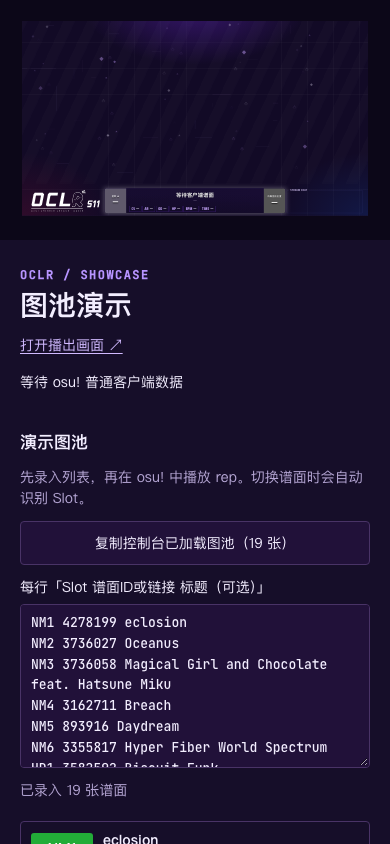
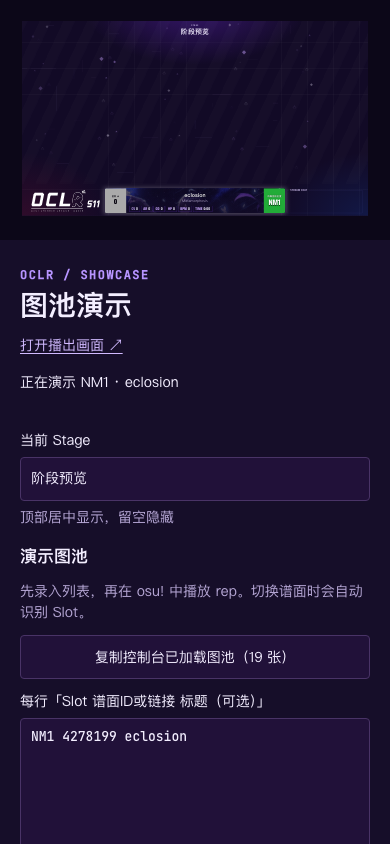
showcase: Add an independent Stage heading

diff --git a/ui/components/ShowcasePage.vue b/ui/components/ShowcasePage.vue
@@ -19,9 +19,15 @@ const { stage, scale } = useCanvasFit();
 const poolDraft = ref('');
 const dirty = ref(false);
 const poolFeedback = ref('');
+const stageDraft = ref('');
+const stageDirty = ref(false);
+const stageFeedback = ref('');
 let editRevision = 0;
+let stageRevision = 0;
 let pending: ReturnType<typeof setTimeout>;
+let pendingStage: ReturnType<typeof setTimeout>;
 watch(() => snapshot.value?.poolText, value => { if (!dirty.value && value !== undefined) poolDraft.value = value; }, { immediate: true });
+watch(() => snapshot.value?.stageLabel, value => { if (!stageDirty.value && value !== undefined) stageDraft.value = value; }, { immediate: true });
 const source = computed<MapInfoSource>(() => ({ shared: true, emptyTitle: '等待客户端谱面',
   currentMap: connection.value === 'synced' ? snapshot.value?.currentMap || null : null,
   metadataEnabled: !!snapshot.value?.matchedId,
@@ -50,6 +56,22 @@ function editPool() {
   clearTimeout(pending);
   pending = setTimeout(() => { void syncPool(); }, 450);
 }
+async function syncStage() {
+  clearTimeout(pendingStage);
+  if (!stageDirty.value) return;
+  if (connection.value !== 'synced') { stageFeedback.value = '等待连接恢复后自动同步'; return; }
+  if (busy.value) { pendingStage = setTimeout(() => { void syncStage(); }, 300); return; }
+  const revision = stageRevision;
+  const ok = await command('stage-label', { value: stageDraft.value });
+  if (revision !== stageRevision) { pendingStage = setTimeout(() => { void syncStage(); }, 450); return; }
+  if (ok) { stageDirty.value = false; stageDraft.value = snapshot.value?.stageLabel || ''; stageFeedback.value = 'Stage 已自动同步'; }
+  else stageFeedback.value = 'Stage 未同步，请检查输入或连接';
+}
+function editStage() {
+  stageRevision++; stageDirty.value = true; stageFeedback.value = '停止输入后自动同步'; error.value = '';
+  clearTimeout(pendingStage);
+  pendingStage = setTimeout(() => { void syncStage(); }, 450);
+}
 async function copyLoadedPool() {
   const revision = ++editRevision;
   clearTimeout(pending);
@@ -58,9 +80,13 @@ async function copyLoadedPool() {
     dirty.value = false; poolDraft.value = snapshot.value?.poolText || ''; poolFeedback.value = '已复制到 Showcase 图池';
   }
 }
-watch(connection, value => { if (value === 'synced' && dirty.value) void syncPool(); });
+watch(connection, value => {
+  if (value !== 'synced') return;
+  if (dirty.value) void syncPool();
+  if (stageDirty.value) void syncStage();
+});
 onMounted(() => { document.title = 'OCLR · 图池 Showcase'; document.body.classList.add('is-showcase'); });
-onUnmounted(() => { clearTimeout(pending); document.body.classList.remove('is-showcase'); });
+onUnmounted(() => { clearTimeout(pending); clearTimeout(pendingStage); document.body.classList.remove('is-showcase'); });
 </script>
 
 <template>
@@ -73,6 +99,10 @@ onUnmounted(() => { clearTimeout(pending); document.body.classList.remove('is-sh
       </header>
       <p class="showcase-status" role="status">{{ playbackStatus }}</p>
       <p v-if="error || snapshot?.error" class="showcase-error" role="alert">{{ error || snapshot?.error }}</p>
+      <label class="showcase-stage-input">当前 Stage
+        <input v-model="stageDraft" type="text" maxlength="80" :disabled="connection !== 'synced'" :aria-invalid="stageDirty && !!error" placeholder="例如：32强、半决赛、决赛" aria-describedby="showcase-stage-feedback" @input="editStage" @blur="syncStage">
+        <span id="showcase-stage-feedback" class="showcase-help" role="status">{{ stageFeedback || '顶部居中显示，留空隐藏' }}</span>
+      </label>
       <section class="showcase-pool-setup" aria-labelledby="showcase-pool-heading">
         <h2 id="showcase-pool-heading">演示图池</h2>
         <p class="showcase-help">先录入列表，再在 osu! 中播放 rep。切换谱面时会自动识别 Slot。</p>
@@ -80,9 +110,9 @@ onUnmounted(() => { clearTimeout(pending); document.body.classList.remove('is-sh
         <label class="showcase-pool-input">每行「Slot 谱面ID或链接 标题（可选）」
           <textarea v-model="poolDraft" rows="7" spellcheck="false" :disabled="connection !== 'synced'" placeholder="NM1 谱面ID
 HD1 https://osu.ppy.sh/beatmaps/具体难度ID"
-            aria-describedby="showcase-pool-feedback" :aria-invalid="!!error" @input="editPool" @blur="syncPool"></textarea>
+            aria-describedby="showcase-pool-feedback" :aria-invalid="dirty && !!error" @input="editPool" @blur="syncPool"></textarea>
         </label>
-        <p id="showcase-pool-feedback" class="showcase-help" role="status">{{ busy ? '正在同步图池…' : error ? '列表未应用，请修改上方提示的行' : poolFeedback || (snapshot?.pool.length ? `已录入 ${snapshot.pool.length} 张谱面` : '列表自动同步，无需逐张切换 Slot') }}</p>
+        <p id="showcase-pool-feedback" class="showcase-help" role="status">{{ busy && dirty ? '正在同步图池…' : error && dirty ? '列表未应用，请修改上方提示的行' : poolFeedback || (snapshot?.pool.length ? `已录入 ${snapshot.pool.length} 张谱面` : '列表自动同步，无需逐张切换 Slot') }}</p>
       </section>
       <ul v-if="snapshot?.pool.length" class="showcase-maps" aria-label="演示图池与当前匹配">
         <li v-for="map in snapshot.pool" :key="map.id" :data-current="connection === 'synced' && snapshot.matchedId === map.id" :aria-current="connection === 'synced' && snapshot.matchedId === map.id ? 'true' : undefined" :title="`${map.label} · ${map.title} [${map.difficulty}]`">
@@ -90,7 +120,7 @@ HD1 https://osu.ppy.sh/beatmaps/具体难度ID"
           <span><strong>{{ map.title || `谱面 #${map.beatmapId}` }}</strong><small>{{ map.difficulty || `#${map.beatmapId}` }}</small></span>
         </li>
       </ul>
-      <p class="showcase-help">使用 tosu 读取 osu! 普通客户端的当前谱面。在 OBS 自行添加回放采集源，放到 Showcase 浏览器源上方，并完整缩放到上半区；16:9 画面可使用 1600×900，位置 (160, 0)。</p>
+      <p class="showcase-help">使用 tosu 读取 osu! 普通客户端的当前谱面。在 OBS 自行添加回放采集源，放到 Showcase 浏览器源上方；16:9 画面可使用 1440×810，位置 (240, 90)，为顶部 Stage 留出空间。</p>
       <ShowcaseObsSetup />
     </aside>
     <main class="canvas-stage" ref="stage" aria-label="Showcase 画面预览">
@@ -100,7 +130,12 @@ HD1 https://osu.ppy.sh/beatmaps/具体难度ID"
             <SpectrumGrid />
             <ShowcaseAmbient />
           </div>
-          <div class="showcase-game victory-body" data-showcase-capture aria-label="单客户端回放演示区域，游戏采集在 OBS 中叠放到本背景上方"></div>
+          <div class="showcase-game victory-body" aria-hidden="true"></div>
+          <header v-if="snapshot?.stageLabel" class="showcase-stage-title" data-showcase-stage :title="snapshot.stageLabel">
+            <span>STAGE</span>
+            <strong>{{ snapshot.stageLabel }}</strong>
+          </header>
+          <div class="showcase-replay-area" data-showcase-capture aria-label="单客户端回放区域 1440×810，位置 240,90"></div>
           <footer class="showcase-footer">
             <div class="showcase-logo">
               <img :src="seasonLogo" width="690" height="240" alt="OCLR S11 比赛 Logo" decoding="async">

diff --git a/server/showcase.js b/server/showcase.js
@@ -5,6 +5,10 @@ import { tosuRoomTeams } from '../src/tosu.js';
 import { parseShowcasePool, showcasePool, showcasePoolText } from './showcase-pool.js';
 
 const poolToken = pool => createHash('sha256').update(JSON.stringify(pool)).digest('hex');
+const stageLabel = value => {
+  if (typeof value !== 'string' || value.length > 80 || /[\u0000-\u001f\u007f]/.test(value)) throw new Error('Stage 请填写 80 字以内的单行阶段名称。');
+  return value.trim();
+};
 
 // Showcase owns its pool. Live map identity is derived from the ordinary client,
 // never persisted as an operator selection or sent back to competition state.
@@ -12,7 +16,7 @@ export class ShowcaseStore {
   constructor(session, { file = session?.file && join(dirname(session.file), 'showcase.json') } = {}) {
     this.session = session;
     this.file = file;
-    this.state = { schema: 2, pool: [] };
+    this.state = { schema: 2, pool: [], stageLabel: '' };
     this.tail = Promise.resolve();
     this.ready = this.restore();
   }
@@ -29,10 +33,10 @@ export class ShowcaseStore {
     if (!this.file) return;
     try {
       const value = JSON.parse(await readFile(this.file, 'utf8'));
-      if (value.schema === 2) this.state = { schema: 2, pool: showcasePool(value.pool) };
+      if (value.schema === 2) this.state = { schema: 2, pool: showcasePool(value.pool), stageLabel: stageLabel(value.stageLabel ?? '') };
       else if (typeof value.poolToken === 'string' && typeof value.useTosu === 'boolean' && (value.selectedId === null || typeof value.selectedId === 'string')) {
         // Replace the earlier manual-selection contract with an independent pool.
-        this.state = { schema: 2, pool: showcasePool(this.session?.snapshot().session.pool || []) };
+        this.state = { schema: 2, pool: showcasePool(this.session?.snapshot().session.pool || []), stageLabel: '' };
       } else throw new Error();
     } catch (error) {
       if (error.code !== 'ENOENT') this.storageError = 'Showcase 设置无法读取，请维护者检查 showcase.json。';
@@ -58,7 +62,7 @@ export class ShowcaseStore {
       title: matched?.title || map.title || '', artist: matched?.artist || map.artist || '', difficulty: matched?.difficulty || map.difficulty || '',
     } : null;
     const snapshot = {
-      poolToken: poolToken(pool), pool, poolText: showcasePoolText(pool),
+      poolToken: poolToken(pool), pool, poolText: showcasePoolText(pool), stageLabel: this.state.stageLabel,
       loadedPoolCount: loadedPool.length, loadedPoolToken: poolToken(loadedPool),
       matchedId: matched?.id || null, currentMap,
       mapParameters: map ? { id: map.id, stats: map.stats, time: map.time } : null,
@@ -77,16 +81,20 @@ export class ShowcaseStore {
       await this.ready;
       if (this.storageError) throw new Error(this.storageError);
       const current = this.snapshot();
-      if (input.poolToken !== current.poolToken) throw new Error('Showcase 图池已更新，请核对当前列表后重试。');
-      let pool;
-      if (input.type === 'pool-text') pool = parseShowcasePool(input.text, this.state.pool);
-      else if (input.type === 'use-loaded-pool') {
-        const loaded = this.session?.snapshot().session.pool || [];
-        if (!loaded.length) throw new Error('控制台尚未加载图池，请直接录入 Showcase 图池列表。');
-        if (input.loadedPoolToken !== poolToken(loaded)) throw new Error('控制台图池已变化，请重新复制。');
-        pool = showcasePool(loaded);
-      } else throw new Error('Showcase 已改为自动跟随客户端，请刷新页面后录入图池。');
-      const next = { schema: 2, pool };
+      let next;
+      if (input.type === 'stage-label') next = { ...this.state, stageLabel: stageLabel(input.value) };
+      else {
+        if (input.poolToken !== current.poolToken) throw new Error('Showcase 图池已更新，请核对当前列表后重试。');
+        let pool;
+        if (input.type === 'pool-text') pool = parseShowcasePool(input.text, this.state.pool);
+        else if (input.type === 'use-loaded-pool') {
+          const loaded = this.session?.snapshot().session.pool || [];
+          if (!loaded.length) throw new Error('控制台尚未加载图池，请直接录入 Showcase 图池列表。');
+          if (input.loadedPoolToken !== poolToken(loaded)) throw new Error('控制台图池已变化，请重新复制。');
+          pool = showcasePool(loaded);
+        } else throw new Error('Showcase 已改为自动跟随客户端，请刷新页面后录入图池。');
+        next = { ...this.state, pool };
+      }
       if (this.file) {
         try {
           await mkdir(dirname(this.file), { recursive: true, mode: 0o700 });

diff --git a/ui/showcase.css b/ui/showcase.css
@@ -10,8 +10,8 @@
 .showcase-controls button:disabled { opacity: .5; cursor: default; }
 .showcase-controls button:hover:not(:disabled) { border-color: var(--purple-light); background: #382055; }
 .showcase-controls :is(button, input, textarea, a):focus-visible { outline: 2px solid #d1baff; outline-offset: 3px; }
-.showcase-pool-input, .showcase-controls .obs-settings label { display: grid; gap: 6px; min-width: 0; }
-.showcase-pool-input textarea, .showcase-controls .obs-settings input { width: 100%; min-width: 0; }
+.showcase-pool-input, .showcase-stage-input, .showcase-controls .obs-settings label { display: grid; gap: 6px; min-width: 0; }
+.showcase-pool-input textarea, .showcase-stage-input input, .showcase-controls .obs-settings input { width: 100%; min-width: 0; }
 .showcase-maps { list-style: none; margin-block: 16px; display: grid; grid-template-columns: minmax(0, 1fr); gap: 8px; max-height: 36vh; overflow-y: auto; padding: 4px; margin-inline: -4px; }
 .showcase-maps li { display: grid; grid-template-columns: 62px minmax(0, 1fr); gap: 10px; align-items: center; text-align: left; border: 1px solid var(--review-line); border-radius: 4px; padding: 8px 10px; }
 .showcase-maps li[data-current='true'] { border-color: var(--purple-light); background: #422363; box-shadow: inset 3px 0 var(--purple-light); }
@@ -43,6 +43,10 @@
 }
 @media (prefers-reduced-motion: reduce) { .showcase-diamond { animation: none; opacity: .26; } }
 .showcase-canvas .showcase-game { position: absolute; inset: 0 0 180px; pointer-events: none; }
+.showcase-stage-title { position: absolute; top: 18px; left: 360px; right: 360px; z-index: 2; display: flex; flex-direction: column; align-items: center; gap: 3px; text-align: center; pointer-events: none; }
+.showcase-stage-title > span { color: var(--muted); font: 700 13px/1.2 var(--display); letter-spacing: .2em; }
+.showcase-stage-title > strong { display: block; width: 100%; overflow: hidden; color: var(--ink); font: 700 38px/1.2 var(--display); letter-spacing: .04em; text-overflow: ellipsis; white-space: nowrap; }
+.showcase-replay-area { position: absolute; left: 240px; top: 90px; width: 1440px; height: 810px; pointer-events: none; }
 .showcase-footer { position: absolute; inset: 900px 0 0; overflow: hidden; }
 .showcase-logo { position: absolute; left: 30px; top: 28px; width: 420px; height: 138px; overflow: hidden; border-radius: var(--radius-panel); }
 .showcase-logo img { display: block; width: 100%; height: 100%; object-fit: contain; object-position: center; }

diff --git a/test/showcase.test.js b/test/showcase.test.js
@@ -62,8 +62,36 @@ test('the independent pool persists across restart, while current Slot follows t
   session.live.tosu.status = 'disconnected';
   assert.equal(restored.snapshot().currentMap, null, 'the last live Slot is never persisted');
   const saved = JSON.parse(await readFile(file, 'utf8'));
-  assert.deepEqual(Object.keys(saved).sort(), ['pool', 'schema']);
+  assert.deepEqual(Object.keys(saved).sort(), ['pool', 'schema', 'stageLabel']);
   assert.equal(saved.schema, 2);
+});
+
+test('Showcase Stage persists independently and stage/pool edits preserve each other without competition events', async t => {
+  const dir = await mkdtemp(join(tmpdir(), 'oclr-showcase-stage-'));
+  t.after(() => rm(dir, { recursive: true, force: true }));
+  const file = join(dir, 'showcase.json');
+  const { session, showcase } = setup(t, { file });
+  const original = structuredClone(session.state);
+  let events = 0;
+  const stop = session.subscribe(() => events++);
+  assert.equal(showcase.snapshot().stageLabel, '');
+  await Promise.all([
+    showcase.command({ type: 'stage-label', value: '  半决赛  ' }),
+    setPool(showcase, 'NM1 101'),
+  ]);
+  assert.equal(showcase.snapshot().stageLabel, '半决赛');
+  assert.equal(showcase.snapshot().pool.length, 1);
+  const restored = new ShowcaseStore(session, { file });
+  await restored.ready;
+  assert.equal(restored.snapshot().stageLabel, '半决赛');
+  await copyPool(showcase);
+  assert.equal(showcase.snapshot().stageLabel, '半决赛');
+  for (const value of ['A\nB', 'X'.repeat(81), 42]) await assert.rejects(showcase.command({ type: 'stage-label', value }), /Stage/);
+  await showcase.command({ type: 'stage-label', value: '' });
+  assert.equal(showcase.snapshot().stageLabel, '');
+  assert.equal(events, 1);
+  assert.deepEqual(session.state, original);
+  stop();
 });
 
 test('manual pool recording is independent of match progress and later control-pool replacement', async t => {

diff --git a/ui/components/ObsSettings.vue b/ui/components/ObsSettings.vue
@@ -55,7 +55,7 @@ function editChat(event: Event) {
           <button :disabled="!!obs.pending" @click="obs.act('create-showcase')">{{ obs.pending === 'create-showcase' ? '正在创建 Showcase 场景…' : '创建 Showcase 场景' }}</button>
           <button :disabled="!!obs.pending" @click="obs.act('disconnect')">断开连接</button>
         </div>
-        <p>创建 1920×1080 的独立 Showcase 背景浏览器源。请自行添加 osu! 回放采集并放在它上方，完整缩放到上半区，再在 OBS 切到 Showcase 场景。</p>
+        <p>创建 1920×1080 的独立 Showcase 背景浏览器源。请自行添加 osu! 回放采集并放在它上方，完整缩放到顶部 Stage 下方的回放区域，再在 OBS 切到 Showcase 场景。</p>
         <p v-if="obs.state.showcase" role="status">Showcase 场景已就绪。</p>
       </template>
       <template v-else>

diff --git a/ui/showcase.ts b/ui/showcase.ts
@@ -7,6 +7,7 @@ export interface ShowcaseSnapshot {
   poolToken: string;
   pool: PoolEntry[];
   poolText: string;
+  stageLabel: string;
   loadedPoolCount: number;
   loadedPoolToken: string;
   matchedId: string | null;
@@ -42,7 +43,7 @@ export function useShowcase() {
     watchdog = setInterval(() => { if (Date.now() - lastReceived > 10000) connection.value = 'disconnected'; }, 1500);
   });
   onUnmounted(() => { disposed = true; events?.close(); clearInterval(watchdog); });
-  const command = async (type: 'pool-text' | 'use-loaded-pool', fields: Record<string, unknown> = {}) => {
+  const command = async (type: 'pool-text' | 'use-loaded-pool' | 'stage-label', fields: Record<string, unknown> = {}) => {
     if (busy.value || !snapshot.value || connection.value !== 'synced') return false;
     busy.value = true; error.value = '';
     try {

diff --git a/docs/verification/showcase/README.md b/docs/verification/showcase/README.md
@@ -6,11 +6,11 @@
 
 按 [Issue #32](https://github.com/OCLR-dev/OCLR-stream-overlay/issues/32) 的独立 Showcase 需求及用户本轮修正：先录入演示图池，随后按普通 osu! 客户端经 tosu 提供的当前谱面自动识别 Slot。原手工点选、前后切图与可选跟随方式已移除。
 
-录入支持 Slot + 谱面 ID／具体难度链接 + 可选标题，也可复制控制台当前已加载图池；输入停顿 450ms 或失焦自动同步。整份列表通过校验后才应用，无效行保留原列表与编辑草稿。Showcase 图池单独保存在 `showcase.json`，控制台后续换场或更换图池不覆盖它；旧手工选择文件兼容迁移为独立图池，旧 Slot 不再生效。
+录入支持 Slot + 谱面 ID／具体难度链接 + 可选标题，也可复制控制台当前已加载图池；输入停顿 450ms 或失焦自动同步。整份列表通过校验后才应用，无效行保留原列表与编辑草稿。Showcase 图池与独立 Stage 名称保存在 `showcase.json`，控制台后续换场或更换图池不覆盖它；旧手工选择文件兼容迁移为独立图池，旧 Slot 不再生效。
 
 当前 Slot 只由新鲜普通客户端谱面 ID 唯一匹配。池外／重复 ID 时 Slot 为 `—`，仍显示真实客户端谱面信息；断线、过期、无谱面或有效赛事房间／选手时清除旧的实时显示。零值参数保留，空 tourney 占位结构按[官方 v2 格式](https://github.com/tosuapp/tosu/wiki/v2-websocket-api-response)兼容。此路径不要求比赛 Playing，不发出比赛命令或改变 Ban/Pick、局次、比分、赛果、场景和撤销历史。
 
-1920×1080 上方 1920×900 改为 Winner 同款背景与动态效果：深紫渐光／静态网格、共用网格光段、54 枚独立向上漂浮的菱形、13.24s 斜条纹。底部恢复 Playing 三段几何：S11 Logo (30,928) 420×138，谱面卡 (460,928) 1000×138，Stream Chat (1470,928) 420×138；不显示红蓝分隔线或 Match Chat。回放采集由直播员放到 OBS 浏览器背景源上方，并限制在上半区。
+1920×1080 上方 1920×900 改为 Winner 同款背景与动态效果：深紫渐光／静态网格、共用网格光段、54 枚独立向上漂浮的菱形、13.24s 斜条纹。底部恢复 Playing 三段几何：S11 Logo (30,928) 420×138，谱面卡 (460,928) 1000×138，Stream Chat (1470,928) 420×138；不显示红蓝分隔线或 Match Chat。最上方居中显示独立录入的 Stage，留空隐藏；标题区高度 90px，回放区域为 (240,90) 1440×810，避免被上方游戏采集盖住。回放采集由直播员放到 OBS 浏览器背景源上方，并限制在该区域。
 
 ## S11 Logo 来源
 
@@ -19,12 +19,12 @@
 ## 验证结果
 
 - 本轮 `npm run build`（含 Vue 类型检查）与 `git diff --check` 通过，构建仅在隔离工作树。
-- Showcase／OBS／HTTP 专项 **40 项**通过，包括独立图池、自动 Slot、跨页面 SSE、图片文件类型与访问边界，以及独立 OBS 创建／重试／常规 EX 保持等回归。
+- Stage／Showcase／独立 OBS／HTTP 专项 **18 项**通过，包括 Stage 保存／恢复、清空、与并发图池编辑互不覆盖、旧文件兼容，以及独立图池、自动 Slot、跨页面 SSE 和路由边界。
 - 浏览器以独立 WebSocket → 真实 `TosuClient` → 归一化 → Showcase SSE → 两个页面检查 NM1 自动变为 NM2。图池自动同步、非法行保持、池外／重复 ID、断线清除与恢复、刷新跟随保持。
-- 1920×1080 几何复核：Logo／谱面卡／Stream Chat 的位置与 Playing 三段布局一致；Logo 成功解码本地透明 SVG，实际像素检查确认可见图形为纯白、其余区域透明。Winner 斜纹周期保持 13.24s；Showcase 单独使用 54 枚菱形。实际运动取样确认水平位移为 0、竖直位移向上；Winner 仍使用原 36 枚菱形与 `ambient-diamond-drift`。换图后装饰节点保持同一个 DOM；减少动态偏好下斜纹和菱形动画关闭、网格光段隐藏。
+- 1920×1080 几何复核：Stage 标题位于顶部中央且底边不超过 90px，输入自动同步、清空隐藏、刷新保留；回放区域 (240,90) 1440×810 与标题不重叠。Logo／谱面卡／Stream Chat 的位置与 Playing 三段布局一致；Logo 成功解码本地透明 SVG，实际像素检查确认可见图形为纯白、其余区域透明。Winner 斜纹周期保持 13.24s；Showcase 单独使用 54 枚菱形。实际运动取样确认水平位移为 0、竖直位移向上；Winner 仍使用原 36 枚菱形与 `ambient-diamond-drift`。换图后装饰节点保持同一个 DOM；减少动态偏好下斜纹和菱形动画关闭、网格光段隐藏。
 - 1440×1000 操作页与 390×844 手机页无横向溢出；独立干净输出不请求比赛会话或 OBS 管理 API。八组 Playing 人数／比例／EX 捕获与 1000×138 谱面卡几何保持。详情见 [浏览器量测](browser-checks.json)。浏览器无 exception、error 或 warning，比赛会话前后深比较相同。
 
-浏览器复制了现有 3001 服务已加载的完整 19 张图池，仅用于隔离验证，未增造谱面或写回原比赛。WebSocket 信号与截图中的零值参数是**明确的合成验证信号**，不代表谱面正式参数或真实回放。池外／重复映射为故障注入测试，未改官方图池。
+浏览器复制了现有 3001 服务已加载的完整 19 张图池，仅用于隔离验证，未增造谱面或写回原比赛。WebSocket 信号与截图中的零值参数是**明确的合成验证信号**，不代表谱面正式参数或真实回放；截图中的「阶段预览」也是排版验证文字，不代表正式赛程阶段。池外／重复映射为故障注入测试，未改官方图池。
 
 [Logo 局部预览](showcase-logo-preview.png) · [等待客户端时的输出](showcase-empty-1920.png) · [已匹配谱面的输出](showcase-1920.png) · [桌面录入与自动匹配](selection-1440.png) · [手机操作](selection-390.png)
 

diff --git a/README.md b/README.md
@@ -52,10 +52,12 @@ npm run watch
 
 ## 图池 Showcase
 
-打开 `/showcase`，先录入演示图池，每行「Slot 谱面ID或链接 标题（可选）」，例如 `NM1 4278199 eclosion`；也可点击「复制控制台已加载图池」。支持 osu! 具体难度链接，图集链接须带 `#osu/难度ID`。输入停顿或离开输入框后自动同步，无需保存。图池单独写入比赛文件同目录的 `showcase.json`，后续控制台换场或改图池不会覆盖它。
+打开 `/showcase`，先录入演示图池，每行「Slot 谱面ID或链接 标题（可选）」，例如 `NM1 4278199 eclosion`；也可点击「复制控制台已加载图池」。支持 osu! 具体难度链接，图集链接须带 `#osu/难度ID`。输入停顿或离开输入框后自动同步，无需保存。图池与 Stage 单独写入比赛文件同目录的 `showcase.json`，后续控制台换场或改图池不会覆盖它们。
+
+左侧「当前 Stage」可独立填写本次图池的阶段名称，输入后自动同步到画面最上方中央，留空隐藏。它不跟随控制台默认比赛阶段；复制图池也保留已填写的名称。
 
 让 tosu 读取 osu! 普通客户端，在客户端选择谱面或运行 rep；Showcase 按当前谱面 ID 自动匹配 Slot，并同步曲名、难度、封面及可用参数，不需要手工选图或切 Slot。只有唯一匹配时才显示图池 Slot；池外或同一 ID 对应多个 Slot 时显示 `—`，操作区说明原因。断线、过期、无有效谱面或有效赛事客户端数据不会保留上张图的实时显示。
-在页面的「Showcase 的 OBS 设置」中连接本机 OBS，然后点击「创建 Showcase 场景」。会创建 `OCLR · Showcase` 和 1920×1080 的独立 `/showcase?clean=1` 浏览器源；不会自动切 Program。已有直播身份码时会复用同一弹幕源，也可在 Showcase 设置中粘贴身份码。osu! 普通客户端运行单张谱面的 rep 后，请自行在 OBS 添加回放采集源并放到 Showcase 浏览器源上方；16:9 画面可设为 1600×900、位置 (160,0)，完整放在上半区。上半区复用 Winner 的深紫背景与动态效果；底部按 Playing 排列 S11 官方比赛 Logo、1000×138 谱面卡和 `STREAM CHAT`。
+在页面的「Showcase 的 OBS 设置」中连接本机 OBS，然后点击「创建 Showcase 场景」。会创建 `OCLR · Showcase` 和 1920×1080 的独立 `/showcase?clean=1` 浏览器源；不会自动切 Program。已有直播身份码时会复用同一弹幕源，也可在 Showcase 设置中粘贴身份码。osu! 普通客户端运行单张谱面的 rep 后，请自行在 OBS 添加回放采集源并放到 Showcase 浏览器源上方；16:9 画面可设为 1440×810、位置 (240,90)，放在 Stage 标题区下方。上半区复用 Winner 的深紫背景与动态效果；底部按 Playing 排列 S11 官方比赛 Logo、1000×138 谱面卡和 `STREAM CHAT`。
 
 谱面跟随复用服务端当前已连接的 tosu 数据，不另建浏览器直连。Showcase 的图池与自动显示不修改比赛 Ban/Pick、局次、比分、场景或自动化；`/overlay` 继续承担原比赛输出。真实 Windows 单客户端 rep、tosu 与 OBS 合成仍需实机验收，隔离验证见 [Showcase 验证](docs/verification/showcase/README.md)。
 

diff --git a/DESIGN.md b/DESIGN.md
@@ -442,7 +442,7 @@ BanchoBot 名称不区分大小写，或消息明确标为 `bot` 时，昵称优
 
 `/showcase` 先录入演示图池，再自动跟随普通 osu! 客户端经 tosu 提供的当前谱面，`/showcase?clean=1` 为独立 OBS 浏览器源。Slot 由谱面 ID 唯一匹配，不提供手工切 Slot、上一张／下一张或可选的谱面跟随开关。录入支持 Slot + 谱面 ID／具体难度链接 + 可选标题，也可显式复制控制台已加载图池；输入停顿／失焦自动同步。图池独立保存在 `showcase.json`，后续比赛换场或控制台图池调整不覆盖演示图池。
 
-1920×1080 上方 1920×900 复用 Winner 的深紫渐光／网格底、`SpectrumGrid` 和 `.victory-body` 的 13.24s 无缝斜条纹动态；Showcase 独立使用 54 枚只向上漂浮的菱形（原共用场景为 36 枚），不改 Winner 的数量和方向。装饰独立挂载，实时换图不重建，减少动态偏好下停动。回放采集由直播员在 OBS 中放到浏览器背景源上方，16:9 可用 1600×900、位置 (160,0)。底部按 Playing 的三段几何排列：S11 比赛 Logo (30,928) 420×138、共用 `MapInfoCard` (460,928) 1000×138、Stream Chat (1470,928) 420×138；不显示红蓝分隔线或 Match Chat。Logo 使用官网 S11 矢量横幅中的 OCLR、S11 与小图案原始路径，组合为纯白透明 SVG；等比完整显示，不带矩形底图。
+1920×1080 上方 1920×900 复用 Winner 的深紫渐光／网格底、`SpectrumGrid` 和 `.victory-body` 的 13.24s 无缝斜条纹动态；Showcase 独立使用 54 枚只向上漂浮的菱形（原共用场景为 36 枚），不改 Winner 的数量和方向。装饰独立挂载，实时换图不重建，减少动态偏好下停动。顶部居中显示独立填写的当前 Stage，输入停顿／失焦即同步，留空隐藏；与图池一起保存，不改比赛会话。标题区域保留 90px，回放采集由直播员在 OBS 中放到浏览器背景源上方，16:9 可用 1440×810、位置 (240,90)。底部按 Playing 的三段几何排列：S11 比赛 Logo (30,928) 420×138、共用 `MapInfoCard` (460,928) 1000×138、Stream Chat (1470,928) 420×138；不显示红蓝分隔线或 Match Chat。Logo 使用官网 S11 矢量横幅中的 OCLR、S11 与小图案原始路径，组合为纯白透明 SVG；等比完整显示，不带矩形底图。
 
 专用 API／SSE 同步独立图池和当前客户端显示，不发送比赛命令。普通客户端数据必须新鲜且有有效谱面 ID；唯一匹配显示 Slot，池外或重复 ID 显示真实客户端谱面信息但 Slot 为 `—`，操作区说明原因。断线、过期、空谱面或有效赛事房间／选手数据清除实时显示，不沿用旧 Slot 或参数。空 tourney 占位字段不视为有效赛事数据。独立图池可读取现有封面／元数据服务；未匹配条目不请求池内计算参数。
 
